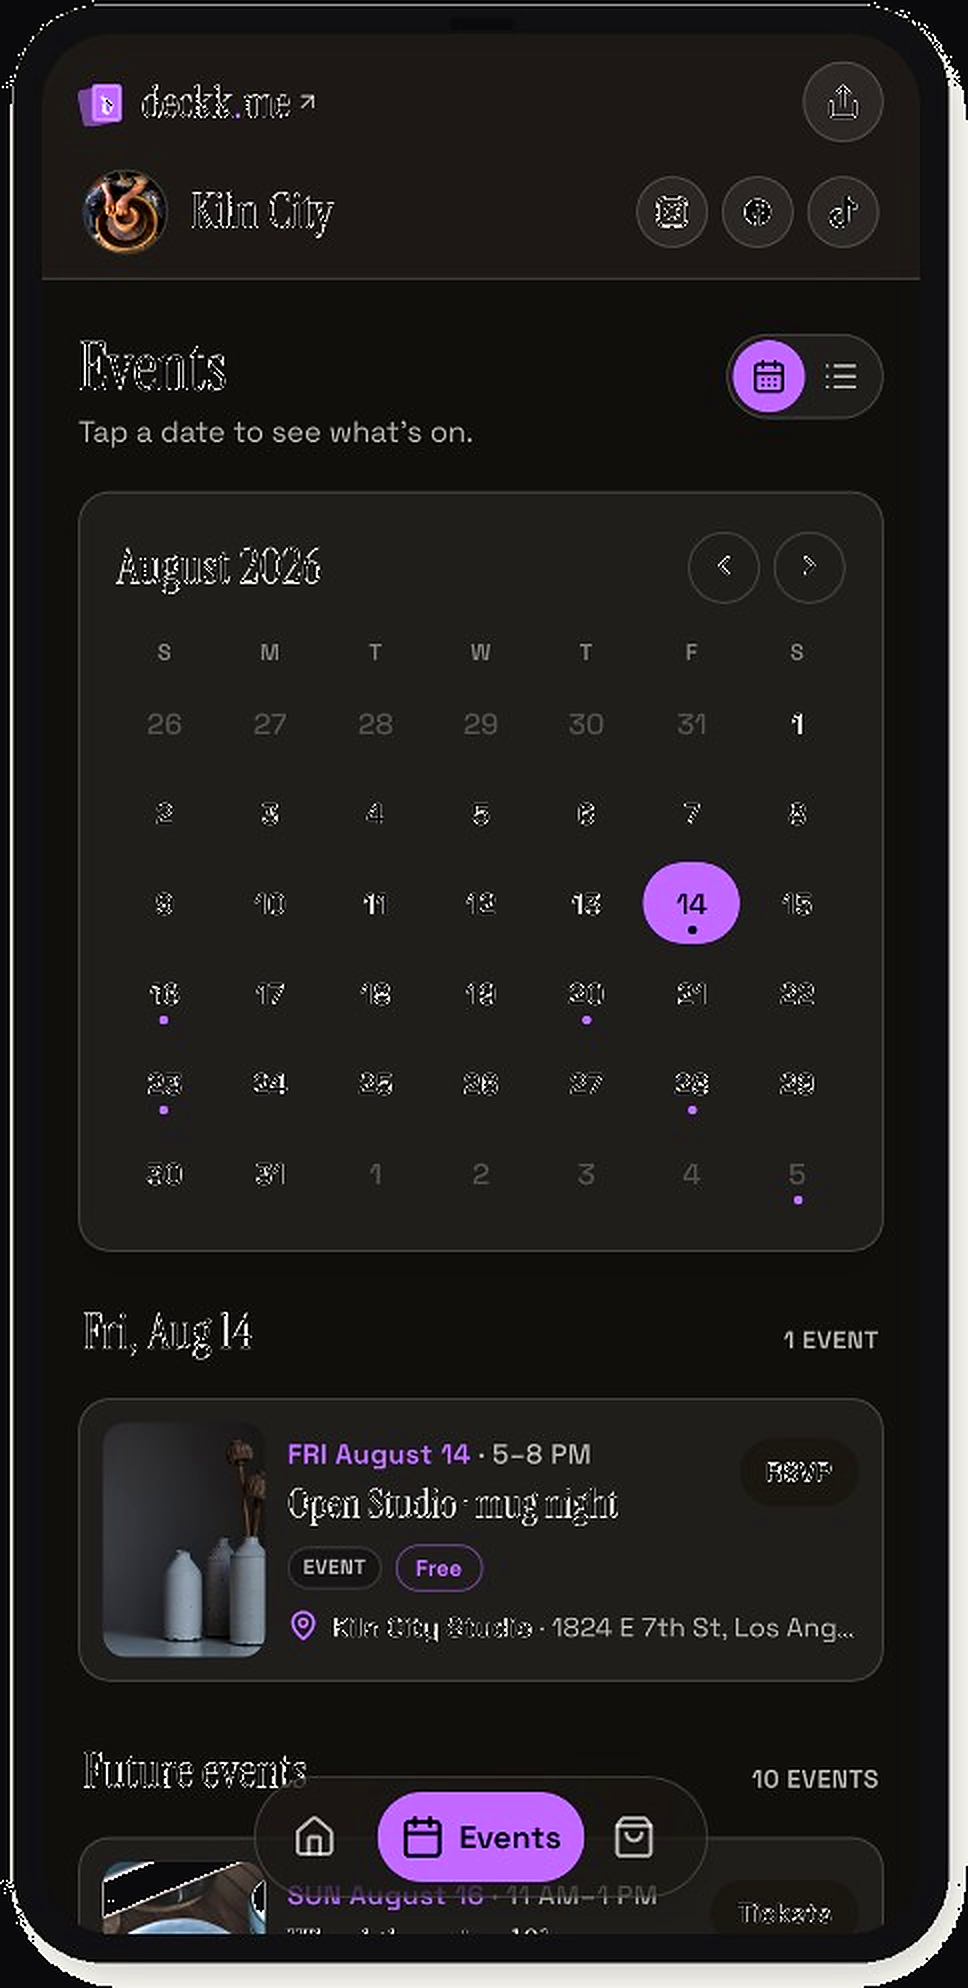
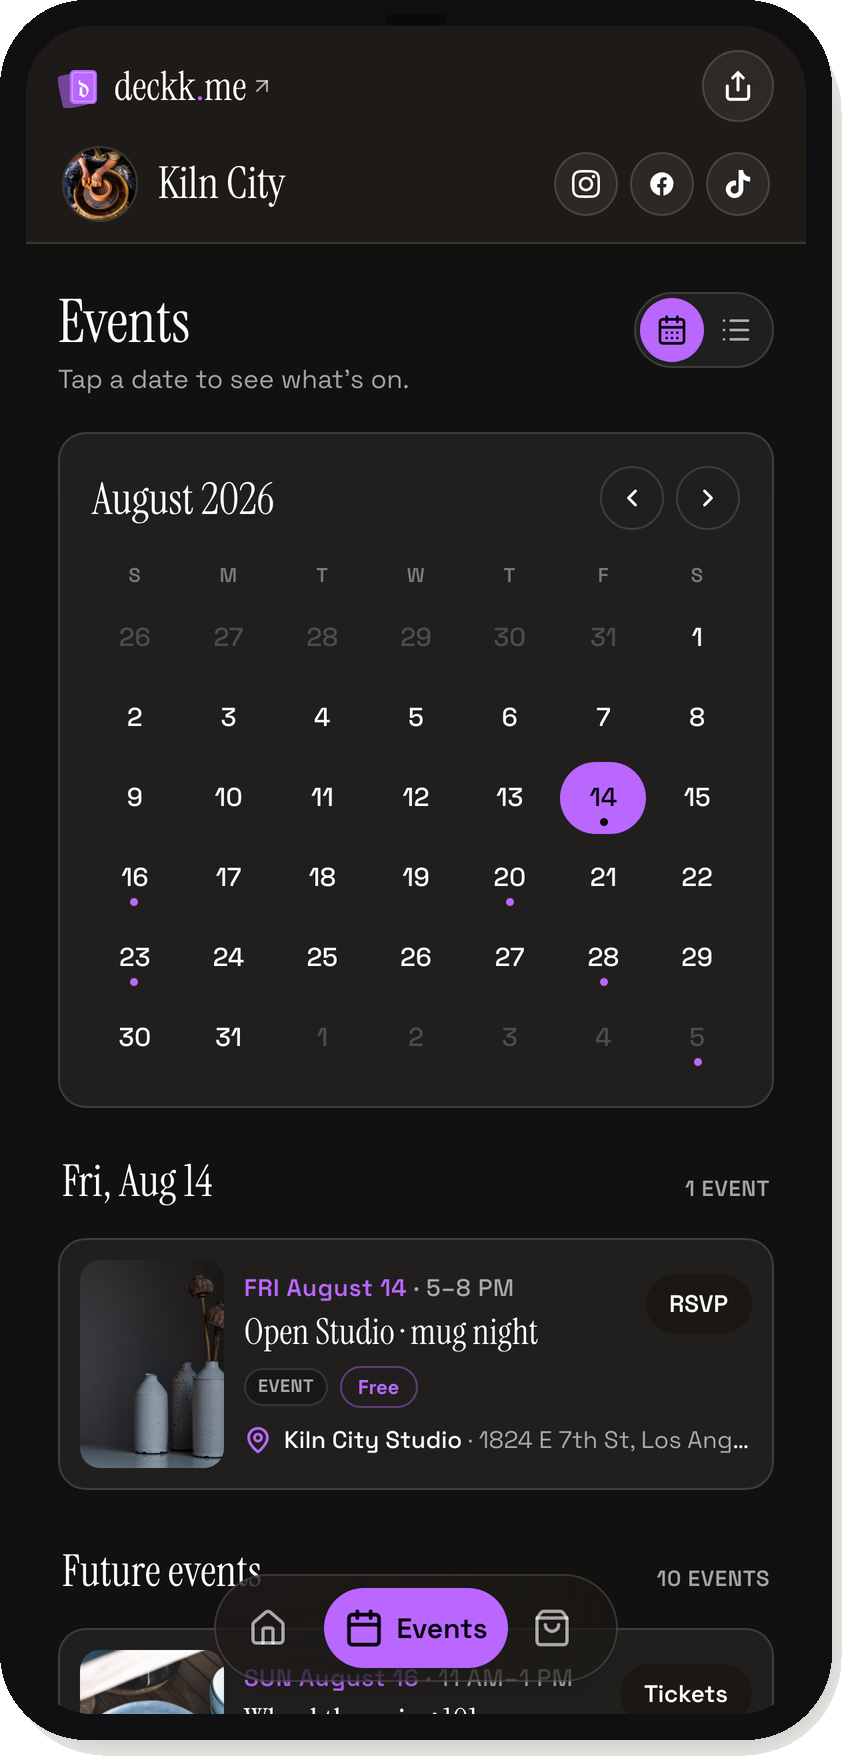
Use native Kiln City device exports for Deckk, not upscaled chat JPEGs.
Swap in sharp portfolio PNGs, drop the dark rounded frame chrome that softened cutouts, and cache-bust images.

diff --git a/case-study.css b/case-study.css
@@ -2164,9 +2164,9 @@ body.case-study-body {
   padding: clamp(1.5rem, 4vw, 2.5rem) clamp(0.5rem, 2vw, 1rem) 1.25rem;
   border-radius: 0;
   background:
-    radial-gradient(ellipse 80% 70% at 55% 45%, rgba(140, 110, 220, 0.12), transparent 60%),
-    radial-gradient(ellipse 60% 50% at 20% 80%, rgba(180, 160, 210, 0.08), transparent 55%),
-    linear-gradient(180deg, #e8e4ef 0%, #ddd7e8 48%, #d4cfe0 100%);
+    radial-gradient(ellipse 80% 70% at 55% 45%, rgba(140, 110, 220, 0.14), transparent 60%),
+    radial-gradient(ellipse 60% 50% at 20% 80%, rgba(180, 160, 210, 0.1), transparent 55%),
+    linear-gradient(180deg, #ece8f2 0%, #e2dde9 48%, #d8d2e4 100%);
   overflow: visible;
   border: none;
   box-shadow: none;
@@ -2177,8 +2177,8 @@ body.case-study-body {
   position: absolute;
   inset: 10% 15% auto;
   height: 50%;
-  background: radial-gradient(ellipse at center, rgba(150, 120, 230, 0.12), transparent 70%);
-  filter: blur(12px);
+  background: radial-gradient(ellipse at center, rgba(150, 120, 230, 0.14), transparent 70%);
+  filter: blur(14px);
   z-index: 0;
 }
 
@@ -2190,16 +2190,17 @@ body.case-study-body {
   align-items: flex-end;
   min-height: clamp(360px, 52vw, 520px);
   padding: 0.5rem 0 0.25rem;
-  isolation: isolate;
 }
 
+/* Shadow wrapper: do not animate or filter the image layer (avoids soft raster) */
 .deckk-hero-phone {
   margin: 0;
   line-height: 0;
-  /* box-shadow not filter — filter blurs the phone bitmap */
-  box-shadow: 0 22px 40px rgba(40, 30, 70, 0.2);
-  border-radius: 14% / 7%;
-  background: #0c0c0e;
+  background: transparent;
+  border-radius: 0;
+  box-shadow: none;
+  filter: drop-shadow(0 18px 28px rgba(40, 30, 70, 0.22));
+  will-change: auto;
 }
 
 .deckk-hero-phone img {
@@ -2211,21 +2212,19 @@ body.case-study-body {
   background: transparent;
   box-shadow: none;
   opacity: 1;
+  /* keep pixels crisp under rotation */
   image-rendering: auto;
-  -webkit-backface-visibility: hidden;
-  backface-visibility: hidden;
-  transform: translateZ(0);
+  -webkit-font-smoothing: antialiased;
 }
 
 .deckk-hero-phone--back {
-  width: min(240px, 34vw);
+  width: min(238px, 33vw);
   transform: translate(18%, 4%) rotate(-9deg);
-  opacity: 1;
   z-index: 1;
 }
 
 .deckk-hero-phone--front {
-  width: min(280px, 40vw);
+  width: min(268px, 38vw);
   transform: translate(-12%, 0) rotate(4deg);
   z-index: 2;
 }
@@ -2309,13 +2308,13 @@ body.case-study-body {
 
 /* Deckk device shots already include a phone frame — no extra shell */
 .deckk-device {
-  width: min(100%, 300px);
+  width: min(100%, 268px);
   margin: 0 auto;
   line-height: 0;
-  box-shadow: 0 16px 28px rgba(40, 30, 70, 0.16);
-  border-radius: 14% / 7%;
-  background: #0c0c0e;
-  overflow: hidden;
+  background: transparent;
+  border-radius: 0;
+  overflow: visible;
+  filter: drop-shadow(0 14px 24px rgba(40, 30, 70, 0.18));
 }
 
 .deckk-device img {
@@ -2327,7 +2326,4 @@ body.case-study-body {
   background: transparent;
   box-shadow: none;
   opacity: 1;
-  image-rendering: auto;
-  -webkit-backface-visibility: hidden;
-  backface-visibility: hidden;
 }

diff --git a/case-study-deckk.html b/case-study-deckk.html
@@ -13,7 +13,7 @@
   <link rel="preconnect" href="https://fonts.gstatic.com" crossorigin>
   <link href="https://fonts.googleapis.com/css2?family=Instrument+Sans:ital,wght@0,400;0,500;0,600;0,700;1,400&family=IBM+Plex+Mono:wght@400;500&display=swap" rel="stylesheet">
   <link rel="stylesheet" href="ui-system.css?v=2">
-  <link rel="stylesheet" href="case-study.css?v=52">
+  <link rel="stylesheet" href="case-study.css?v=53">
 </head>
 <body class="case-study-body" data-cs-open="true">
 
@@ -91,10 +91,10 @@
             <div class="deckk-hero-showcase__glow" aria-hidden="true"></div>
             <div class="deckk-hero-showcase__stage">
               <figure class="deckk-hero-phone deckk-hero-phone--back">
-                <img src="deckk-kilncity-events.png?v=3" alt="Kiln City Events calendar on Deckk — August 2026 with Open Studio selected" width="513" height="1024" decoding="async">
+                <img src="deckk-kilncity-events.png?v=5" alt="Kiln City Events calendar on Deckk — August 2026 with Open Studio selected" width="836" height="1744" decoding="async">
               </figure>
               <figure class="deckk-hero-phone deckk-hero-phone--front">
-                <img src="deckk-kilncity-home.png?v=3" alt="Kiln City Home on Deckk — Next up events and featured shop" width="513" height="1024" decoding="async">
+                <img src="deckk-kilncity-home.png?v=5" alt="Kiln City Home on Deckk — Next up events and featured shop" width="836" height="1744" decoding="async">
               </figure>
             </div>
             <p class="deckk-hero-showcase__caption body-sm">Kiln City · public deck in dark mode — Home and Events</p>
@@ -232,13 +232,13 @@
               <figure class="phone-compare__item">
                 <figcaption class="phone-compare__label body-sm">Home · Next up + shop</figcaption>
                 <div class="deckk-device">
-                  <img src="deckk-kilncity-home.png?v=3" alt="Kiln City Home on Deckk with ranked Next up events and Featured shop" width="513" height="1024" loading="lazy" decoding="async">
+                  <img src="deckk-kilncity-home.png?v=5" alt="Kiln City Home on Deckk with ranked Next up events and Featured shop" width="836" height="1744" loading="lazy" decoding="async">
                 </div>
               </figure>
               <figure class="phone-compare__item">
                 <figcaption class="phone-compare__label body-sm">Events · calendar + day list</figcaption>
                 <div class="deckk-device">
-                  <img src="deckk-kilncity-events.png?v=3" alt="Kiln City Events calendar on Deckk with Open Studio mug night selected" width="513" height="1024" loading="lazy" decoding="async">
+                  <img src="deckk-kilncity-events.png?v=5" alt="Kiln City Events calendar on Deckk with Open Studio mug night selected" width="836" height="1744" loading="lazy" decoding="async">
                 </div>
               </figure>
             </div>

diff --git a/index.html b/index.html
@@ -314,7 +314,7 @@
           </div>
           <div class="glass-card project-card" data-case-study="case-study-deckk.html" data-work-categories="ai">
             <div class="project-media project-media--deckk">
-              <img src="deckk-case-thumb.png?v=4" alt="Kiln City Events on Deckk — dark mode public deck">
+              <img src="deckk-case-thumb.png?v=5" alt="Kiln City Events on Deckk — dark mode public deck">
             </div>
             <div class="project-meta">
               <h3 class="project-title">Deckk: Reimagining the Link-in-Bio with AI</h3>
